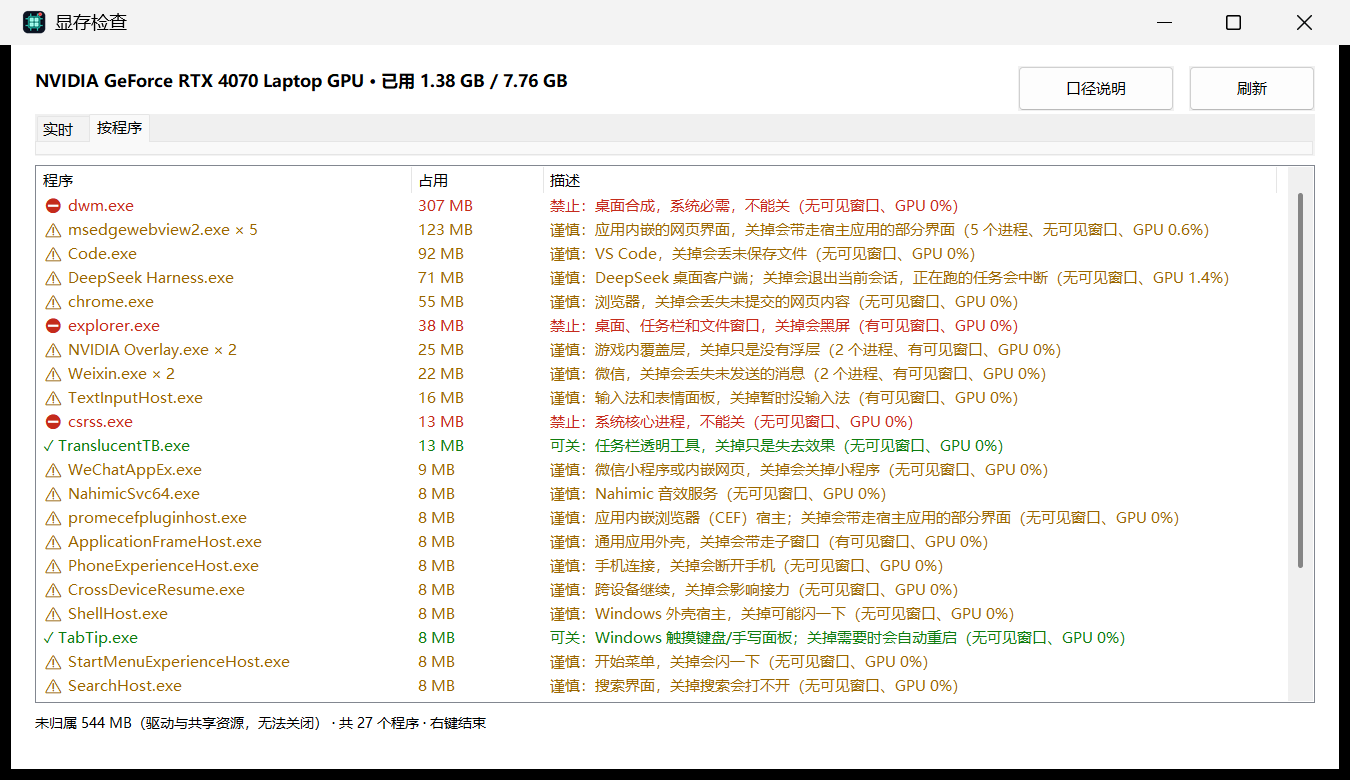
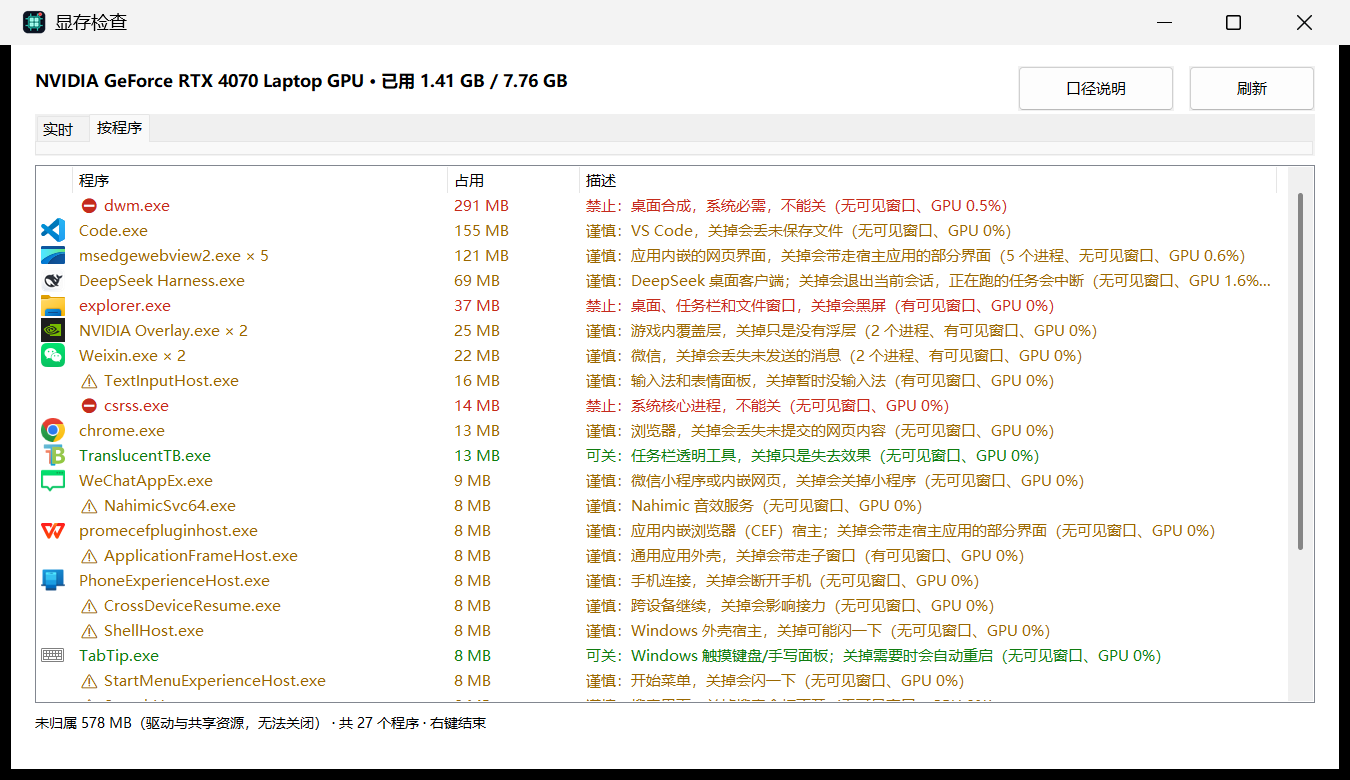
feat(ui): 进程自带图标（1.2.0）
从 exe 抽 16px 图标进 ListView ImageList；按程序名缓存、每轮最多 8 个。没有图标组的进程继续显示原来的风险符号。ListView 新增第 0 列放图标，程序名/占用/描述后移一列。

diff --git a/src/app.rs b/src/app.rs
@@ -1,6 +1,6 @@
 //! 生命周期、消息循环、UI 与采样线程的接线。
 
-use std::collections::HashSet;
+use std::collections::{HashMap, HashSet};
 use std::ffi::c_void;
 use std::sync::mpsc::Receiver;
 use std::time::{Duration, Instant};
@@ -14,7 +14,7 @@ use windows::Win32::Graphics::Gdi::{
 use windows::Win32::System::LibraryLoader::GetModuleHandleW;
 use windows::Win32::UI::Controls::{
     CDDS_ITEMPREPAINT, CDDS_PREPAINT, CDRF_DODEFAULT, CDRF_NEWFONT, CDRF_NOTIFYITEMDRAW,
-    LVHITTESTINFO, NMITEMACTIVATE, NMLVCUSTOMDRAW, TCIF_TEXT, TCITEMW,
+    HIMAGELIST, LVHITTESTINFO, NMITEMACTIVATE, NMLVCUSTOMDRAW, TCIF_TEXT, TCITEMW,
 };
 use windows::Win32::UI::HiDpi::{GetDpiForSystem, GetDpiForWindow};
 use windows::Win32::UI::WindowsAndMessaging::{
@@ -30,7 +30,7 @@ use crate::data::model::{Mode, Snapshot, Target, Unattributed};
 use crate::data::sampler::{self, SamplerThread};
 use crate::explain::{self, Risk};
 use crate::format;
-use crate::ui::{listview, window};
+use crate::ui::{icons, listview, window};
 use crate::vendor::wide;
 
 const WM_SETFONT: u32 = 0x0030;
@@ -61,6 +61,9 @@ struct DisplayRow {
     desc: String,
     risk: Risk,
     targets: Vec<Target>,
+    icon: i32,
+    icon_name: String,
+    icon_pid: u32,
 }
 
 struct PendingClose {
@@ -91,6 +94,8 @@ pub struct App {
     status: Option<(String, Instant)>,
     pending: Option<PendingClose>,
     column_is_memory: bool,
+    icons: HIMAGELIST,
+    icon_cache: HashMap<String, i32>,
     active: bool,
     minimized: bool,
     timer_on: bool,
@@ -119,6 +124,8 @@ impl App {
             status: None,
             pending: None,
             column_is_memory: false,
+            icons: HIMAGELIST::default(),
+            icon_cache: HashMap::new(),
             active: true,
             minimized: false,
             timer_on: false,
@@ -249,13 +256,19 @@ impl App {
                 self.list = list;
                 listview::set_font(list, self.font);
                 listview::apply_style(list);
-                let widths = [self.px(250), self.px(88), self.px(470)];
+                let images = icons::create(self.px(16));
+                if images.0 != 0 {
+                    self.icons = images;
+                    listview::set_image_list(list, images);
+                }
+                let widths = [self.px(24), self.px(250), self.px(88), self.px(470)];
                 listview::set_columns(
                     list,
                     &[
-                        ("程序", widths[0]),
-                        ("占用", widths[1]),
-                        ("描述", widths[2]),
+                        ("", widths[0]),
+                        ("程序", widths[1]),
+                        ("占用", widths[2]),
+                        ("描述", widths[3]),
                     ],
                 );
             }
@@ -434,7 +447,7 @@ impl App {
         set_text(self.header, &header);
 
         if !self.list.0.is_null() && memory_mode != self.column_is_memory {
-            listview::set_column_text(self.list, 1, if memory_mode { "内存" } else { "占用" });
+            listview::set_column_text(self.list, 2, if memory_mode { "内存" } else { "占用" });
             self.column_is_memory = memory_mode;
         }
 
@@ -486,6 +499,9 @@ impl App {
                             desc: text.desc,
                             risk: text.risk,
                             targets: group.members.iter().map(|member| member.target()).collect(),
+                            icon: -1,
+                            icon_name: group.root_name.clone(),
+                            icon_pid: group.root_pid,
                         });
 
                         if expanded {
@@ -502,6 +518,9 @@ impl App {
                                     desc: member_text.desc,
                                     risk: member_text.risk,
                                     targets: vec![member.target()],
+                                    icon: -1,
+                                    icon_name: member.name.clone(),
+                                    icon_pid: member.pid,
                                 });
                             }
                         }
@@ -522,12 +541,25 @@ impl App {
                                 .iter()
                                 .map(|member| member.target())
                                 .collect(),
+                            icon: -1,
+                            icon_name: program.name.clone(),
+                            icon_pid: program.members.first().map_or(0, |member| member.pid),
                         });
                     }
                 }
             }
             rows
         };
+
+        let mut rows = rows;
+        let mut icon_budget = 8;
+        for row in &mut rows {
+            row.icon = self.resolve_icon(&row.icon_name, row.icon_pid, &mut icon_budget);
+            if row.icon >= 0 {
+                row.title = strip_glyph(&row.title, row.risk.glyph());
+            }
+        }
+        let rows = rows;
 
         let changed = self.rows.len() != rows.len()
             || self.rows.iter().zip(&rows).any(|(old, new)| {
@@ -536,16 +568,18 @@ impl App {
                     || old.bytes != new.bytes
                     || old.desc != new.desc
                     || old.risk != new.risk
+                    || old.icon != new.icon
             });
         self.rows = rows;
 
         if changed && !self.list.0.is_null() {
             let top = listview::top_index(self.list);
-            let tuples: Vec<(String, String, String)> = self
+            let tuples: Vec<(i32, String, String, String)> = self
                 .rows
                 .iter()
                 .map(|row| {
                     (
+                        row.icon,
                         row.title.clone(),
                         format::bytes(row.bytes),
                         row.desc.clone(),
@@ -557,6 +591,24 @@ impl App {
             self.restore_selection(&selected);
         }
         self.update_footer();
+    }
+
+    /// 按程序名缓存图标索引；每轮最多抽 8 个，避免首屏卡在 shell 查询上。
+    fn resolve_icon(&mut self, name: &str, pid: u32, budget: &mut usize) -> i32 {
+        if self.icons.0 == 0 {
+            return -1;
+        }
+        let key = name.to_ascii_lowercase();
+        if let Some(&index) = self.icon_cache.get(&key) {
+            return index;
+        }
+        if *budget == 0 {
+            return -1;
+        }
+        *budget -= 1;
+        let index = icons::add(self.icons, pid).unwrap_or(-1);
+        self.icon_cache.insert(key, index);
+        index
     }
 
     fn selected_keys(&self) -> Vec<RowKey> {
@@ -966,8 +1018,9 @@ impl App {
             let mut list_rect = RECT::default();
             if GetClientRect(self.list, &mut list_rect).is_ok() {
                 let desc =
-                    (list_rect.right - self.px(250) - self.px(88) - self.px(24)).max(self.px(220));
-                listview::set_column_width(self.list, 2, desc);
+                    (list_rect.right - self.px(24) - self.px(250) - self.px(88) - self.px(24))
+                        .max(self.px(220));
+                listview::set_column_width(self.list, 3, desc);
             }
             let _ = MoveWindow(
                 self.footer,
@@ -1048,6 +1101,15 @@ fn insert_tab(tab: HWND, text: &str, index: usize) {
             LPARAM(&mut item as *mut _ as isize),
         );
     }
+}
+
+fn strip_glyph(title: &str, glyph: &str) -> String {
+    let Some(pos) = title.find(glyph) else {
+        return title.to_string();
+    };
+    let after = &title[pos + glyph.len()..];
+    let after = after.strip_prefix(' ').unwrap_or(after);
+    format!("{}{}", &title[..pos], after)
 }
 
 fn create_font(height: i32, weight: i32) -> HFONT {

diff --git a/src/ui/listview.rs b/src/ui/listview.rs
@@ -5,7 +5,8 @@
 use windows::core::{PCWSTR, PWSTR};
 use windows::Win32::Foundation::{HINSTANCE, HWND, LPARAM, WPARAM};
 use windows::Win32::UI::Controls::{
-    LIST_VIEW_ITEM_STATE_FLAGS, LVCF_TEXT, LVCF_WIDTH, LVCOLUMNW, LVIF_TEXT, LVITEMW,
+    HIMAGELIST, LIST_VIEW_ITEM_STATE_FLAGS, LVCF_TEXT, LVCF_WIDTH, LVCOLUMNW, LVIF_IMAGE,
+    LVIF_TEXT, LVITEMW,
 };
 use windows::Win32::UI::WindowsAndMessaging::{
     CreateWindowExW, SendMessageW, HMENU, WINDOW_EX_STYLE, WINDOW_STYLE,
@@ -17,12 +18,15 @@ const LVM_ENSUREVISIBLE: u32 = 0x1013;
 const LVM_SETITEMSTATE: u32 = 0x102B;
 const LVM_GETITEMSTATE: u32 = 0x102C;
 const LVM_SETEXTENDEDLISTVIEWSTYLE: u32 = 0x1036;
+const LVM_SETIMAGELIST: u32 = 0x1003;
 const LVM_INSERTCOLUMNW: u32 = 0x1061; // LVM_FIRST + 97
 const LVM_SETCOLUMNW: u32 = 4192;
 const LVM_SETCOLUMNWIDTH: u32 = 0x101E;
 const LVM_INSERTITEMW: u32 = 0x104D;
 const LVM_SETITEMTEXTW: u32 = 0x1074;
 const WM_SETFONT: u32 = 0x0030;
+
+const LVSIL_SMALL: usize = 1;
 
 const LVS_EX_FULLROWSELECT: usize = 0x0000_0020;
 const LVS_EX_DOUBLEBUFFER: usize = 0x0001_0000;
@@ -72,6 +76,18 @@ pub fn apply_style(list: HWND) {
 pub fn set_font(list: HWND, font: windows::Win32::Graphics::Gdi::HFONT) {
     unsafe {
         SendMessageW(list, WM_SETFONT, WPARAM(font.0 as usize), LPARAM(1));
+    }
+}
+
+/// 给小图标列接上 ImageList。
+pub fn set_image_list(list: HWND, images: HIMAGELIST) {
+    unsafe {
+        SendMessageW(
+            list,
+            LVM_SETIMAGELIST,
+            WPARAM(LVSIL_SMALL),
+            LPARAM(images.0),
+        );
     }
 }
 
@@ -189,19 +205,19 @@ pub fn ensure_visible(list: HWND, index: i32) {
 }
 
 /// 整表替换。行数很少（一屏 Top 10+），不做增量。
-pub fn set_rows(list: HWND, rows: &[(String, String, String)]) {
+pub fn set_rows(list: HWND, rows: &[(i32, String, String, String)]) {
     unsafe {
         SendMessageW(list, LVM_DELETEALLITEMS, WPARAM(0), LPARAM(0));
     }
 
-    for (row_index, (first, second, third)) in rows.iter().enumerate() {
-        let mut first_text = crate::vendor::wide(first);
+    for (row_index, (image, first, second, third)) in rows.iter().enumerate() {
+        // 第 0 列只放图标；文字从第 1 列开始，否则名字会被 24px 的图标列裁掉。
+        let mask = LVIF_IMAGE;
         let mut item = LVITEMW {
-            mask: LVIF_TEXT,
+            mask,
             iItem: row_index as i32,
             iSubItem: 0,
-            pszText: PWSTR(first_text.as_mut_ptr()),
-            cchTextMax: first_text.len() as i32 - 1,
+            iImage: *image,
             ..Default::default()
         };
         let inserted = unsafe {
@@ -213,7 +229,7 @@ pub fn set_rows(list: HWND, rows: &[(String, String, String)]) {
             )
         };
 
-        for (sub_item, extra) in [(1i32, second), (2i32, third)] {
+        for (sub_item, extra) in [(1i32, first), (2i32, second), (3i32, third)] {
             let mut extra_text = crate::vendor::wide(extra);
             let mut cell = LVITEMW {
                 mask: LVIF_TEXT,

diff --git a/src/ui/icons.rs b/src/ui/icons.rs
@@ -1,0 +1,34 @@
+//! 从进程 exe 里抽 16px 小图标，塞进 ListView 的 ImageList。
+//!
+//! 只认 exe 自己带的图标；没有图标组的 exe 返回 `None`，界面继续显示原来的风险符号。
+
+use windows::core::PCWSTR;
+use windows::Win32::UI::Controls::{
+    ImageList_Create, ImageList_ReplaceIcon, HIMAGELIST, ILC_COLOR32, ILC_MASK,
+};
+use windows::Win32::UI::Shell::ExtractIconExW;
+use windows::Win32::UI::WindowsAndMessaging::{DestroyIcon, HICON};
+
+use crate::vendor::wide;
+
+pub fn create(size: i32) -> HIMAGELIST {
+    unsafe { ImageList_Create(size, size, ILC_COLOR32 | ILC_MASK, 32, 32) }
+}
+
+/// 提取成功返回 ImageList 里的索引；没有图标就返回 `None`。
+pub fn add(list: HIMAGELIST, pid: u32) -> Option<i32> {
+    if list.0 == 0 {
+        return None;
+    }
+    let path = crate::data::filemeta::process_path(pid)?;
+    let path = wide(&path);
+    let mut icon = HICON::default();
+    let extracted = unsafe { ExtractIconExW(PCWSTR(path.as_ptr()), 0, None, Some(&mut icon), 1) };
+    if extracted == 0 || icon.0.is_null() {
+        return None;
+    }
+
+    let index = unsafe { ImageList_ReplaceIcon(list, -1, icon) };
+    let _ = unsafe { DestroyIcon(icon) };
+    (index >= 0).then_some(index)
+}

diff --git a/src/data/filemeta.rs b/src/data/filemeta.rs
@@ -56,7 +56,7 @@ pub fn query(pid: u32) -> Option<FileMeta> {
     }
 }
 
-fn process_path(pid: u32) -> Option<String> {
+pub fn process_path(pid: u32) -> Option<String> {
     unsafe {
         let handle: HANDLE = OpenProcess(PROCESS_QUERY_LIMITED_INFORMATION, false, pid).ok()?;
         let mut buffer = [0u16; 1024];

diff --git a/src/ui/mod.rs b/src/ui/mod.rs
@@ -1,2 +1,3 @@
+pub mod icons;
 pub mod listview;
 pub mod window;

diff --git a/docs/ARCHITECTURE.md b/docs/ARCHITECTURE.md
@@ -322,6 +322,7 @@ vram-check/
     │   └── close.rs         WM_CLOSE → 3 秒 → 强制确认；核对 (pid, start_time)
     └── ui/
         ├── window.rs        窗口过程、消息分派
+        ├── icons.rs         exe 图标 → ImageList
         └── listview.rs      ListView 封装、列、行、选中、滚动位置
 ```
 
